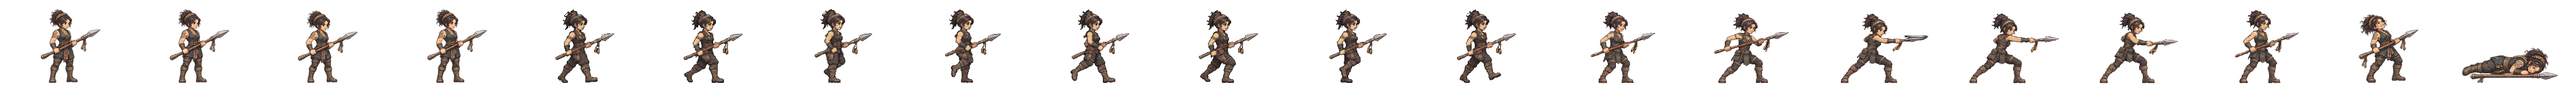
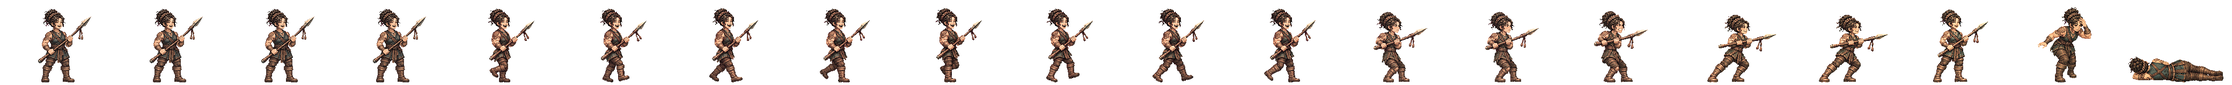
마한 전사 새 전투 띠를 게임에 넣음(서기·걷기·창 찌르기 여덟 칸·쓰러짐·머리띠 고쳐 매기)
우람한(sturdy) 뼈대 장수. 넓은 어깨와 문신 팔이 걷기·공격·쓰러짐에서 서기와 같은 부피로 이어진다.

Claude-Session: https://claude.ai/code/session_01TRiuN7s6aDfSnaHxrkctmU

Changed region(s): [[0.4688, 0.125, 1.0, 0.9688], [0.2188, 0.125, 0.4375, 0.9688], [0.0, 0.125, 0.1875, 0.9688]]

diff --git a/src/realm/data/spritePx.ts b/src/realm/data/spritePx.ts
@@ -1,3 +1,3 @@
 /** public/realm/anim-px/manifest.json 의 사본 — tools/sprite-normalize.mjs 가 만든다 (손으로 고치지 말 것). 칸 [가로, 세로] · feet = 발 줄(칸 위에서 y) · bodyPx = 서 있는 몸 키 */
 import { expandManifest } from './sprite-manifest.ts'
-export const SPRITE_PX: Readonly<Record<string, { readonly cell: readonly [number, number]; readonly feet: number; readonly bodyPx: number; readonly kind: 'general' | 'soldier' | 'folk' | 'crowd'; readonly cells: number }>> = expandManifest<{ readonly cell: readonly [number, number]; readonly feet: number; readonly bodyPx: number; readonly kind: 'general' | 'soldier' | 'folk' | 'crowd'; readonly cells: number }>([{"cell":[166,128],"feet":126,"bodyPx":124,"kind":"soldier","cells":20},{"cell":[116,128],"feet":126,"bodyPx":117,"kind":"soldier","cells":20},{"cell":[127,128],"feet":126,"bodyPx":116,"kind":"soldier","cells":20},{"cell":[269,128],"feet":126,"bodyPx":126,"kind":"soldier","cells":20},{"cell":[503,128],"feet":126,"bodyPx":127,"kind":"soldier","cells":20},{"cell":[614,128],"feet":126,"bodyPx":126,"kind":"soldier","cells":20},{"cell":[200,160],"feet":156,"bodyPx":138,"kind":"general","cells":20},{"cell":[208,160],"feet":155,"bodyPx":138,"kind":"general","cells":20},{"cell":[208,160],"feet":154,"bodyPx":138,"kind":"general","cells":20},{"cell":[304,160],"feet":155,"bodyPx":135,"kind":"general","cells":20},{"cell":[224,160],"feet":156,"bodyPx":139,"kind":"general","cells":20},{"cell":[184,160],"feet":156,"bodyPx":138,"kind":"general","cells":20},{"cell":[208,160],"feet":154,"bodyPx":136,"kind":"general","cells":20},{"cell":[240,160],"feet":156,"bodyPx":138,"kind":"general","cells":20},{"cell":[232,160],"feet":156,"bodyPx":138,"kind":"general","cells":20},{"cell":[208,160],"feet":156,"bodyPx":138,"kind":"general","cells":20},{"cell":[168,160],"feet":156,"bodyPx":138,"kind":"general","cells":20},{"cell":[192,160],"feet":156,"bodyPx":138,"kind":"general","cells":20},{"cell":[168,160],"feet":156,"bodyPx":124,"kind":"general","cells":20},{"cell":[216,160],"feet":156,"bodyPx":130,"kind":"general","cells":20},{"cell":[200,160],"feet":156,"bodyPx":116,"kind":"general","cells":20},{"cell":[200,160],"feet":156,"bodyPx":135,"kind":"general","cells":20},{"cell":[280,160],"feet":156,"bodyPx":138,"kind":"general","cells":20},{"cell":[232,160],"feet":155,"bodyPx":138,"kind":"general","cells":20},{"cell":[232,160],"feet":156,"bodyPx":134,"kind":"general","cells":20},{"cell":[144,160],"feet":156,"bodyPx":70,"kind":"general","cells":20},{"cell":[208,160],"feet":156,"bodyPx":70,"kind":"general","cells":20},{"cell":[192,160],"feet":156,"bodyPx":70,"kind":"general","cells":20},{"cell":[240,160],"feet":155,"bodyPx":138,"kind":"general","cells":20},{"cell":[160,160],"feet":156,"bodyPx":135,"kind":"general","cells":20},{"cell":[192,160],"feet":156,"bodyPx":128,"kind":"general","cells":20},{"cell":[224,160],"feet":155,"bodyPx":138,"kind":"general","cells":20},{"cell":[232,160],"feet":156,"bodyPx":139,"kind":"general","cells":20},{"cell":[216,160],"feet":156,"bodyPx":138,"kind":"general","cells":20},{"cell":[208,160],"feet":156,"bodyPx":134,"kind":"general","cells":20},{"cell":[176,160],"feet":156,"bodyPx":130,"kind":"general","cells":20},{"cell":[248,160],"feet":156,"bodyPx":138,"kind":"general","cells":20},{"cell":[248,160],"feet":155,"bodyPx":138,"kind":"general","cells":20},{"cell":[192,160],"feet":155,"bodyPx":138,"kind":"general","cells":20},{"cell":[192,160],"feet":156,"bodyPx":124,"kind":"general","cells":20},{"cell":[208,160],"feet":154,"bodyPx":131,"kind":"general","cells":20},{"cell":[256,160],"feet":156,"bodyPx":138,"kind":"general","cells":20},{"cell":[232,160],"feet":156,"bodyPx":73,"kind":"general","cells":20},{"cell":[256,160],"feet":155,"bodyPx":138,"kind":"general","cells":20},{"cell":[264,160],"feet":156,"bodyPx":138,"kind":"general","cells":20},{"cell":[224,160],"feet":156,"bodyPx":138,"kind":"general","cells":20},{"cell":[224,160],"feet":156,"bodyPx":128,"kind":"general","cells":20},{"cell":[176,160],"feet":156,"bodyPx":129,"kind":"general","cells":20},{"cell":[208,160],"feet":154,"bodyPx":139,"kind":"general","cells":20},{"cell":[208,160],"feet":156,"bodyPx":132,"kind":"general","cells":20},{"cell":[216,160],"feet":155,"bodyPx":138,"kind":"general","cells":20},{"cell":[184,160],"feet":156,"bodyPx":122,"kind":"general","cells":20},{"cell":[176,160],"feet":156,"bodyPx":138,"kind":"general","cells":20},{"cell":[280,160],"feet":155,"bodyPx":133,"kind":"general","cells":20},{"cell":[176,160],"feet":156,"bodyPx":70,"kind":"general","cells":20},{"cell":[186,128],"feet":126,"bodyPx":127,"kind":"soldier","cells":20},{"cell":[298,128],"feet":126,"bodyPx":126,"kind":"soldier","cells":20},{"cell":[82,128],"feet":126,"bodyPx":114,"kind":"folk","cells":8},{"cell":[134,128],"feet":126,"bodyPx":119,"kind":"soldier","cells":20},{"cell":[380,128],"feet":126,"bodyPx":124,"kind":"soldier","cells":20},{"cell":[114,128],"feet":126,"bodyPx":115,"kind":"soldier","cells":20},{"cell":[122,128],"feet":126,"bodyPx":114,"kind":"soldier","cells":20},{"cell":[254,128],"feet":126,"bodyPx":128,"kind":"soldier","cells":20},{"cell":[438,128],"feet":126,"bodyPx":126,"kind":"soldier","cells":20},{"cell":[88,128],"feet":126,"bodyPx":113,"kind":"folk","cells":8},{"cell":[100,128],"feet":126,"bodyPx":115,"kind":"folk","cells":8},{"cell":[108,128],"feet":126,"bodyPx":115,"kind":"folk","cells":8},{"cell":[63,128],"feet":126,"bodyPx":113,"kind":"folk","cells":8},{"cell":[69,96],"feet":96,"bodyPx":96,"kind":"crowd","cells":1},{"cell":[54,96],"feet":96,"bodyPx":96,"kind":"crowd","cells":1},{"cell":[47,96],"feet":96,"bodyPx":96,"kind":"crowd","cells":1},{"cell":[49,96],"feet":96,"bodyPx":96,"kind":"crowd","cells":1},{"cell":[57,96],"feet":96,"bodyPx":96,"kind":"crowd","cells":1},{"cell":[55,96],"feet":96,"bodyPx":96,"kind":"crowd","cells":1},{"cell":[45,96],"feet":96,"bodyPx":96,"kind":"crowd","cells":1},{"cell":[53,96],"feet":96,"bodyPx":96,"kind":"crowd","cells":1},{"cell":[64,96],"feet":96,"bodyPx":96,"kind":"crowd","cells":1},{"cell":[184,160],"feet":156,"bodyPx":124,"kind":"general","cells":20},{"cell":[184,160],"feet":156,"bodyPx":134,"kind":"general","cells":20},{"cell":[224,160],"feet":156,"bodyPx":133,"kind":"general","cells":20},{"cell":[192,160],"feet":156,"bodyPx":135,"kind":"general","cells":20},{"cell":[184,160],"feet":156,"bodyPx":137,"kind":"general","cells":20},{"cell":[216,160],"feet":156,"bodyPx":134,"kind":"general","cells":20},{"cell":[216,160],"feet":156,"bodyPx":132,"kind":"general","cells":20},{"cell":[288,160],"feet":156,"bodyPx":138,"kind":"general","cells":20},{"cell":[192,160],"feet":156,"bodyPx":118,"kind":"general","cells":20},{"cell":[192,160],"feet":156,"bodyPx":134,"kind":"general","cells":20},{"cell":[192,160],"feet":157,"bodyPx":139,"kind":"general","cells":20},{"cell":[184,160],"feet":156,"bodyPx":128,"kind":"general","cells":20},{"cell":[240,160],"feet":156,"bodyPx":128,"kind":"general","cells":20},{"cell":[184,160],"feet":156,"bodyPx":132,"kind":"general","cells":20},{"cell":[208,160],"feet":156,"bodyPx":123,"kind":"general","cells":20},{"cell":[208,160],"feet":154,"bodyPx":137,"kind":"general","cells":20},{"cell":[176,160],"feet":156,"bodyPx":116,"kind":"general","cells":20},{"cell":[272,160],"feet":156,"bodyPx":138,"kind":"general","cells":20},{"cell":[176,160],"feet":156,"bodyPx":122,"kind":"general","cells":20},{"cell":[232,160],"feet":156,"bodyPx":127,"kind":"general","cells":20},{"cell":[176,160],"feet":156,"bodyPx":137,"kind":"general","cells":20},{"cell":[184,160],"feet":156,"bodyPx":133,"kind":"general","cells":20}],[["axe",0],["bandit-chief",1],["bandit-club",2],["boat",3],["bow",4],["crossbow",5],["gen-adogan",6],["gen-alpyeong",7],["gen-ara",8],["gen-areum",8],["gen-aryeong",9],["gen-bakdal",6],["gen-baram",10],["gen-bdanbi",11],["gen-beom",12],["gen-beombal",11],["gen-beomi",13],["gen-bira",14],["gen-biryu",15],["gen-budeul",16],["gen-byeol",17],["gen-daemusin",18],["gen-daeso",19],["gen-dallae2",11],["gen-dalli",11],["gen-damul",20],["gen-danbi",15],["gen-dangung",17],["gen-darae",21],["gen-dokmudeom",7],["gen-duman",22],["gen-eomni",23],["gen-eureum",24],["gen-g-bow",25],["gen-g-spear",26],["gen-g-sword",27],["gen-gaennae",6],["gen-gamsil",28],["gen-gaon",29],["gen-geota",15],["gen-geumbawi",11],["gen-geumha",30],["gen-goeun",15],["gen-gom",31],["gen-gomok",15],["gen-gureum",28],["gen-guryema",17],["gen-gwaeyu",14],["gen-haebi",8],["gen-haedal",6],["gen-haesol",32],["gen-halla",7],["gen-heo",8],["gen-hneoul",11],["gen-hogong",33],["gen-hojin",15],["gen-horselord",34],["gen-hwalmi",35],["gen-hyeokgeose",17],["gen-hyeopbo",6],["gen-irang",15],["gen-jibaekho",36],["gen-jinha",37],["gen-jita",38],["gen-jumong",39],["gen-keundol",7],["gen-maehwa",40],["gen-maenun",17],["gen-malgalgi",41],["gen-mari",13],["gen-maro",36],["gen-maryeo",15],["gen-mdallae",32],["gen-mir",6],["gen-mount",42],["gen-mulbeom",43],["gen-mulsae",33],["gen-musoe",33],["gen-noeul",8],["gen-nuri",44],["gen-ocheongan",45],["gen-odi",37],["gen-odogan",6],["gen-ogan",17],["gen-oi",46],["gen-olddaeso",24],["gen-onjo",47],["gen-pidogan",15],["gen-sagong",48],["gen-sdallae",6],["gen-sincheongan",33],["gen-singwigan",33],["gen-sinneoul",8],["gen-sobeol",23],["gen-soebi",6],["gen-soebo",49],["gen-soenun",36],["gen-sogeumbi",50],["gen-songbi",45],["gen-songyang",51],["gen-sori",52],["gen-soseono",53],["gen-suro",17],["gen-tahae",6],["gen-tneoul",45],["gen-w-bow",25],["gen-w-spear",54],["gen-waechief",15],["gen-wan",33],["gen-yeodogan",15],["gen-yucheongan",15],["gen-yusugan",36],["horse",55],["marine",56],["migrant",57],["militia",58],["pike",59],["pirate-captain",60],["pirate-sword",61],["shield",62],["spear",63],["villager-builder",64],["villager-farmer",65],["villager-porter",66],["villager-woman",67],["crowd-b1",68],["crowd-b2",69],["crowd-b3",70],["crowd-b4",71],["crowd-b5",72],["crowd-b6",73],["crowd-f1",68],["crowd-f2",73],["crowd-f3",74],["crowd-f4",75],["crowd-f5",68],["crowd-f6",76],["gen-dalbit",15],["gen-base-g-07-drunk-warrior",17],["gen-base-g-40-anya-adan",15],["gen-base-w-13-young-archer",8],["gen-base-g-03-sea-trader",13],["gen-base-w-10-pirate-captain",48],["gen-base-w-64-miri-dallae",48],["gen-base-g-41-goja-bau",13],["gen-base-g-42-dokro-garam",44],["gen-base-g-09-farmer-conscript",33],["gen-base-w-02-goguryeo-lady",33],["gen-base-w-17-mahan-pearl-diver",8],["gen-base-g-17-saro-isageum",49],["gen-base-g-18-daegaya-king",77],["gen-base-g-35-dabeol-dalgu",15],["gen-base-g-19-sabeol-veteran",33],["gen-base-w-23-usisan-whale-queen",33],["gen-base-g-36-gammun-gamdol",45],["gen-base-g-20-samul-sea-lord",41],["gen-base-g-37-eumjeup-jeup",11],["gen-base-g-38-chopal-palmae",17],["gen-base-w-75-daegaya-soemoe",17],["gen-base-g-45-dabeol-deulgae",11],["gen-base-g-04-jinhan-giant",15],["gen-base-g-08-veteran",15],["gen-base-w-18-jinhan-salt-widow",15],["gen-base-w-12-court-dancer",78],["gen-base-w-83-gyeonji-beodeul",79],["gen-base-w-05-baekje-queen",80],["gen-base-w-21-baekje-court-dancer",11],["gen-base-g-01-master-smith",81],["gen-base-g-93-jomun-solgae",35],["gen-base-g-57-bihwa-neup",13],["gen-base-w-72-eumjeup-beol",15],["gen-base-w-102-garak-dana",33],["gen-base-g-68-baekje-onnuri",15],["gen-base-w-27-mokji-jinha",6],["gen-base-g-22-ungcheon-gomnae",6],["gen-base-g-23-sangdang-soedal",15],["gen-base-g-24-wansan-onsan",6],["gen-base-g-25-balla-keunmoe",33],["gen-base-g-61-heomcheuk-bawi",33],["gen-base-g-88-wander-soeul",45],["gen-base-w-14-feast-spy",6],["gen-base-g-12-silla-youth",82],["gen-base-w-08-mahan-warrior",13],["gen-base-g-62-beonye-hanul",13],["gen-base-g-63-heomcheuk-beogeum",15],["gen-base-g-84-wander-seoneul",15],["gen-base-w-50-siljik-mulga",33],["gen-base-g-46-uga-nureongso",33],["gen-base-w-80-usan-gangchi",13],["gen-base-g-47-guga-sanyanggae",33],["gen-base-w-76-gampyeong-baetsagong",36],["gen-base-g-05-mahan-chieftain",83],["gen-base-g-58-usan-uhae",15],["gen-base-g-27-maek-maekdol",15],["gen-base-w-53-hwanna-gabi",16],["gen-base-w-29-golpo-janmul",36],["gen-base-g-53-baekje-haeru",6],["gen-base-w-71-yeonna-neoul",13],["gen-base-w-79-yangmaek-solmae",33],["gen-base-w-34-chopal-deulme",44],["gen-base-g-44-maga-malgup",84],["gen-base-w-31-dabeol-dalbit",48],["gen-base-g-51-biryuna-mulgyeol",45],["gen-base-g-48-gwanna-musoe",15],["gen-base-g-32-uga-sodu",14],["gen-base-g-49-goguryeo-sona",85],["gen-base-g-30-gwanna-soemoe",45],["gen-base-g-52-tamna-oreum",11],["gen-base-g-29-yeonna-myeongsol",39],["gen-base-w-56-dongokjeo-sogeum",86],["gen-base-g-54-mokji-mahan",14],["gen-base-g-33-jeoga-metdol",17],["gen-base-w-36-baekje-maena",17],["gen-base-w-38-sangdang-bulmae",6],["gen-base-w-39-gosaburi-galmae",87],["gen-base-w-40-mujin-munui",49],["gen-base-w-41-hwanna-beodeul",88],["gen-base-w-43-uga-nuri",41],["gen-base-w-45-tamna-oreumbi",11],["gen-base-g-60-golbeol-golgae",11],["gen-base-g-61-apdok-ap",33],["gen-base-g-62-gammun-gamnamu",6],["gen-base-g-63-chopal-yeoul",36],["gen-base-g-64-michuhol-sogeumkkun",13],["gen-base-g-65-sangdang-soemangchi",45],["gen-base-g-66-geonma-malbalgup",89],["gen-base-g-67-gosaburi-buri",90],["gen-base-g-68-mujin-bitgoeul",11],["gen-base-g-69-goryong-yong",45],["gen-base-g-70-siljik-pado",13],["gen-base-w-81-byeokjin-byeolbit",14],["gen-base-w-46-geonma-maru",36],["gen-base-w-48-mujin-mudeung",13],["gen-base-g-26-gampyeong-gaetbeol",14],["gen-base-g-60-eupcha-hangyeol",91],["gen-base-g-15-shaman-man",33],["gen-base-g-85-wander-ure",36],["gen-base-g-43-hwanna-amnok",15],["gen-base-g-50-bullae-gwaha",80],["gen-base-g-55-saro-bakdal",15],["gen-base-g-56-haseulla-gwahama",6],["gen-base-w-06-buyeo-huntress",92],["gen-base-w-22-dongye-tiger-huntress",8],["gen-base-w-25-bihwa-priestess",33],["gen-base-w-24-apdok-queen",11],["gen-base-w-61-iseo-sinae",15],["gen-base-w-26-iseo-tomboy-general",44],["gen-base-g-59-yangmaek-maekson",93],["gen-aw1-haebi",45],["gen-aw1-soseono",94],["gen-aw1-gamsil",11],["gen-aw1-mir",52],["gen-aw1-dangung",6],["gen-aw1-ara",45],["gen-aw1-jumong",95],["gen-aw1-onjo",96],["gen-aw1-base-w-83-gyeonji-beodeul",17],["gen-aw1-heo",44],["gen-aw1-base-g-38-chopal-palmae",6],["gen-aw1-base-w-25-bihwa-priestess",78],["gen-aw1-sori",16],["gen-aw1-gomok",6],["gen-aw1-irang",17],["gen-aw1-budeul",16],["gen-aw1-gom",13],["gen-aw1-sdallae",6],["gen-aw1-base-w-13-young-archer",6],["gen-aw1-base-w-36-baekje-maena",97],["gen-aw1-base-g-09-farmer-conscript",44],["gen-aw1-base-w-02-goguryeo-lady",98],["gen-aw1-haedal",11],["gen-aw1-hogong",6],["gen-aw1-maehwa",52],["gen-aw1-base-w-06-buyeo-huntress",14],["gen-aw1-base-w-08-mahan-warrior",45],["gen-aw1-base-w-29-golpo-janmul",45],["gen-aw1-base-w-31-dabeol-dalbit",17],["gen-aw1-base-w-38-sangdang-bulmae",16],["gen-aw1-bira",33],["gen-aw1-base-w-53-hwanna-gabi",16],["gen-aw1-base-w-56-dongokjeo-sogeum",52],["gen-aw1-base-w-72-eumjeup-beol",17],["gen-aw1-bdanbi",16],["gen-aw1-beom",11],["gen-aw1-beombal",11],["gen-aw1-byeol",17],["gen-aw1-dalli",52],["gen-aw1-malgalgi",36],["gen-aw1-sincheongan",33]])
+export const SPRITE_PX: Readonly<Record<string, { readonly cell: readonly [number, number]; readonly feet: number; readonly bodyPx: number; readonly kind: 'general' | 'soldier' | 'folk' | 'crowd'; readonly cells: number }>> = expandManifest<{ readonly cell: readonly [number, number]; readonly feet: number; readonly bodyPx: number; readonly kind: 'general' | 'soldier' | 'folk' | 'crowd'; readonly cells: number }>([{"cell":[166,128],"feet":126,"bodyPx":124,"kind":"soldier","cells":20},{"cell":[116,128],"feet":126,"bodyPx":117,"kind":"soldier","cells":20},{"cell":[127,128],"feet":126,"bodyPx":116,"kind":"soldier","cells":20},{"cell":[269,128],"feet":126,"bodyPx":126,"kind":"soldier","cells":20},{"cell":[503,128],"feet":126,"bodyPx":127,"kind":"soldier","cells":20},{"cell":[614,128],"feet":126,"bodyPx":126,"kind":"soldier","cells":20},{"cell":[200,160],"feet":156,"bodyPx":138,"kind":"general","cells":20},{"cell":[208,160],"feet":155,"bodyPx":138,"kind":"general","cells":20},{"cell":[208,160],"feet":154,"bodyPx":138,"kind":"general","cells":20},{"cell":[304,160],"feet":155,"bodyPx":135,"kind":"general","cells":20},{"cell":[224,160],"feet":156,"bodyPx":139,"kind":"general","cells":20},{"cell":[184,160],"feet":156,"bodyPx":138,"kind":"general","cells":20},{"cell":[208,160],"feet":154,"bodyPx":136,"kind":"general","cells":20},{"cell":[240,160],"feet":156,"bodyPx":138,"kind":"general","cells":20},{"cell":[232,160],"feet":156,"bodyPx":138,"kind":"general","cells":20},{"cell":[208,160],"feet":156,"bodyPx":138,"kind":"general","cells":20},{"cell":[168,160],"feet":156,"bodyPx":138,"kind":"general","cells":20},{"cell":[192,160],"feet":156,"bodyPx":138,"kind":"general","cells":20},{"cell":[168,160],"feet":156,"bodyPx":124,"kind":"general","cells":20},{"cell":[216,160],"feet":156,"bodyPx":130,"kind":"general","cells":20},{"cell":[200,160],"feet":156,"bodyPx":116,"kind":"general","cells":20},{"cell":[200,160],"feet":156,"bodyPx":135,"kind":"general","cells":20},{"cell":[280,160],"feet":156,"bodyPx":138,"kind":"general","cells":20},{"cell":[232,160],"feet":155,"bodyPx":138,"kind":"general","cells":20},{"cell":[232,160],"feet":156,"bodyPx":134,"kind":"general","cells":20},{"cell":[144,160],"feet":156,"bodyPx":70,"kind":"general","cells":20},{"cell":[208,160],"feet":156,"bodyPx":70,"kind":"general","cells":20},{"cell":[192,160],"feet":156,"bodyPx":70,"kind":"general","cells":20},{"cell":[240,160],"feet":155,"bodyPx":138,"kind":"general","cells":20},{"cell":[160,160],"feet":156,"bodyPx":135,"kind":"general","cells":20},{"cell":[192,160],"feet":156,"bodyPx":128,"kind":"general","cells":20},{"cell":[224,160],"feet":155,"bodyPx":138,"kind":"general","cells":20},{"cell":[232,160],"feet":156,"bodyPx":139,"kind":"general","cells":20},{"cell":[216,160],"feet":156,"bodyPx":138,"kind":"general","cells":20},{"cell":[208,160],"feet":156,"bodyPx":134,"kind":"general","cells":20},{"cell":[176,160],"feet":156,"bodyPx":130,"kind":"general","cells":20},{"cell":[248,160],"feet":156,"bodyPx":138,"kind":"general","cells":20},{"cell":[248,160],"feet":155,"bodyPx":138,"kind":"general","cells":20},{"cell":[192,160],"feet":155,"bodyPx":138,"kind":"general","cells":20},{"cell":[192,160],"feet":156,"bodyPx":124,"kind":"general","cells":20},{"cell":[208,160],"feet":154,"bodyPx":131,"kind":"general","cells":20},{"cell":[256,160],"feet":156,"bodyPx":138,"kind":"general","cells":20},{"cell":[232,160],"feet":156,"bodyPx":73,"kind":"general","cells":20},{"cell":[256,160],"feet":155,"bodyPx":138,"kind":"general","cells":20},{"cell":[264,160],"feet":156,"bodyPx":138,"kind":"general","cells":20},{"cell":[224,160],"feet":156,"bodyPx":138,"kind":"general","cells":20},{"cell":[224,160],"feet":156,"bodyPx":128,"kind":"general","cells":20},{"cell":[176,160],"feet":156,"bodyPx":129,"kind":"general","cells":20},{"cell":[208,160],"feet":154,"bodyPx":139,"kind":"general","cells":20},{"cell":[208,160],"feet":156,"bodyPx":132,"kind":"general","cells":20},{"cell":[216,160],"feet":155,"bodyPx":138,"kind":"general","cells":20},{"cell":[184,160],"feet":156,"bodyPx":122,"kind":"general","cells":20},{"cell":[176,160],"feet":156,"bodyPx":138,"kind":"general","cells":20},{"cell":[280,160],"feet":155,"bodyPx":133,"kind":"general","cells":20},{"cell":[176,160],"feet":156,"bodyPx":70,"kind":"general","cells":20},{"cell":[186,128],"feet":126,"bodyPx":127,"kind":"soldier","cells":20},{"cell":[298,128],"feet":126,"bodyPx":126,"kind":"soldier","cells":20},{"cell":[82,128],"feet":126,"bodyPx":114,"kind":"folk","cells":8},{"cell":[134,128],"feet":126,"bodyPx":119,"kind":"soldier","cells":20},{"cell":[380,128],"feet":126,"bodyPx":124,"kind":"soldier","cells":20},{"cell":[114,128],"feet":126,"bodyPx":115,"kind":"soldier","cells":20},{"cell":[122,128],"feet":126,"bodyPx":114,"kind":"soldier","cells":20},{"cell":[254,128],"feet":126,"bodyPx":128,"kind":"soldier","cells":20},{"cell":[438,128],"feet":126,"bodyPx":126,"kind":"soldier","cells":20},{"cell":[88,128],"feet":126,"bodyPx":113,"kind":"folk","cells":8},{"cell":[100,128],"feet":126,"bodyPx":115,"kind":"folk","cells":8},{"cell":[108,128],"feet":126,"bodyPx":115,"kind":"folk","cells":8},{"cell":[63,128],"feet":126,"bodyPx":113,"kind":"folk","cells":8},{"cell":[69,96],"feet":96,"bodyPx":96,"kind":"crowd","cells":1},{"cell":[54,96],"feet":96,"bodyPx":96,"kind":"crowd","cells":1},{"cell":[47,96],"feet":96,"bodyPx":96,"kind":"crowd","cells":1},{"cell":[49,96],"feet":96,"bodyPx":96,"kind":"crowd","cells":1},{"cell":[57,96],"feet":96,"bodyPx":96,"kind":"crowd","cells":1},{"cell":[55,96],"feet":96,"bodyPx":96,"kind":"crowd","cells":1},{"cell":[45,96],"feet":96,"bodyPx":96,"kind":"crowd","cells":1},{"cell":[53,96],"feet":96,"bodyPx":96,"kind":"crowd","cells":1},{"cell":[64,96],"feet":96,"bodyPx":96,"kind":"crowd","cells":1},{"cell":[184,160],"feet":156,"bodyPx":124,"kind":"general","cells":20},{"cell":[184,160],"feet":156,"bodyPx":134,"kind":"general","cells":20},{"cell":[224,160],"feet":156,"bodyPx":133,"kind":"general","cells":20},{"cell":[192,160],"feet":156,"bodyPx":135,"kind":"general","cells":20},{"cell":[184,160],"feet":156,"bodyPx":137,"kind":"general","cells":20},{"cell":[216,160],"feet":156,"bodyPx":134,"kind":"general","cells":20},{"cell":[216,160],"feet":156,"bodyPx":132,"kind":"general","cells":20},{"cell":[288,160],"feet":156,"bodyPx":138,"kind":"general","cells":20},{"cell":[192,160],"feet":156,"bodyPx":118,"kind":"general","cells":20},{"cell":[192,160],"feet":156,"bodyPx":134,"kind":"general","cells":20},{"cell":[192,160],"feet":157,"bodyPx":139,"kind":"general","cells":20},{"cell":[184,160],"feet":156,"bodyPx":128,"kind":"general","cells":20},{"cell":[240,160],"feet":156,"bodyPx":128,"kind":"general","cells":20},{"cell":[184,160],"feet":156,"bodyPx":132,"kind":"general","cells":20},{"cell":[208,160],"feet":156,"bodyPx":123,"kind":"general","cells":20},{"cell":[208,160],"feet":154,"bodyPx":137,"kind":"general","cells":20},{"cell":[176,160],"feet":156,"bodyPx":116,"kind":"general","cells":20},{"cell":[272,160],"feet":156,"bodyPx":138,"kind":"general","cells":20},{"cell":[176,160],"feet":156,"bodyPx":122,"kind":"general","cells":20},{"cell":[232,160],"feet":156,"bodyPx":127,"kind":"general","cells":20},{"cell":[176,160],"feet":156,"bodyPx":137,"kind":"general","cells":20},{"cell":[184,160],"feet":156,"bodyPx":133,"kind":"general","cells":20}],[["axe",0],["bandit-chief",1],["bandit-club",2],["boat",3],["bow",4],["crossbow",5],["gen-adogan",6],["gen-alpyeong",7],["gen-ara",8],["gen-areum",8],["gen-aryeong",9],["gen-bakdal",6],["gen-baram",10],["gen-bdanbi",11],["gen-beom",12],["gen-beombal",11],["gen-beomi",13],["gen-bira",14],["gen-biryu",15],["gen-budeul",16],["gen-byeol",17],["gen-daemusin",18],["gen-daeso",19],["gen-dallae2",11],["gen-dalli",11],["gen-damul",20],["gen-danbi",15],["gen-dangung",17],["gen-darae",21],["gen-dokmudeom",7],["gen-duman",22],["gen-eomni",23],["gen-eureum",24],["gen-g-bow",25],["gen-g-spear",26],["gen-g-sword",27],["gen-gaennae",6],["gen-gamsil",28],["gen-gaon",29],["gen-geota",15],["gen-geumbawi",11],["gen-geumha",30],["gen-goeun",15],["gen-gom",31],["gen-gomok",15],["gen-gureum",28],["gen-guryema",17],["gen-gwaeyu",14],["gen-haebi",8],["gen-haedal",6],["gen-haesol",32],["gen-halla",7],["gen-heo",8],["gen-hneoul",11],["gen-hogong",33],["gen-hojin",15],["gen-horselord",34],["gen-hwalmi",35],["gen-hyeokgeose",17],["gen-hyeopbo",6],["gen-irang",15],["gen-jibaekho",36],["gen-jinha",37],["gen-jita",38],["gen-jumong",39],["gen-keundol",7],["gen-maehwa",40],["gen-maenun",17],["gen-malgalgi",41],["gen-mari",13],["gen-maro",36],["gen-maryeo",15],["gen-mdallae",32],["gen-mir",6],["gen-mount",42],["gen-mulbeom",43],["gen-mulsae",33],["gen-musoe",33],["gen-noeul",8],["gen-nuri",44],["gen-ocheongan",45],["gen-odi",37],["gen-odogan",6],["gen-ogan",17],["gen-oi",46],["gen-olddaeso",24],["gen-onjo",47],["gen-pidogan",15],["gen-sagong",48],["gen-sdallae",6],["gen-sincheongan",33],["gen-singwigan",33],["gen-sinneoul",8],["gen-sobeol",23],["gen-soebi",6],["gen-soebo",49],["gen-soenun",36],["gen-sogeumbi",50],["gen-songbi",45],["gen-songyang",51],["gen-sori",52],["gen-soseono",53],["gen-suro",17],["gen-tahae",6],["gen-tneoul",45],["gen-w-bow",25],["gen-w-spear",54],["gen-waechief",15],["gen-wan",33],["gen-yeodogan",15],["gen-yucheongan",15],["gen-yusugan",36],["horse",55],["marine",56],["migrant",57],["militia",58],["pike",59],["pirate-captain",60],["pirate-sword",61],["shield",62],["spear",63],["villager-builder",64],["villager-farmer",65],["villager-porter",66],["villager-woman",67],["crowd-b1",68],["crowd-b2",69],["crowd-b3",70],["crowd-b4",71],["crowd-b5",72],["crowd-b6",73],["crowd-f1",68],["crowd-f2",73],["crowd-f3",74],["crowd-f4",75],["crowd-f5",68],["crowd-f6",76],["gen-dalbit",15],["gen-base-g-07-drunk-warrior",17],["gen-base-g-40-anya-adan",15],["gen-base-w-13-young-archer",8],["gen-base-g-03-sea-trader",13],["gen-base-w-10-pirate-captain",48],["gen-base-w-64-miri-dallae",48],["gen-base-g-41-goja-bau",13],["gen-base-g-42-dokro-garam",44],["gen-base-g-09-farmer-conscript",33],["gen-base-w-02-goguryeo-lady",33],["gen-base-w-17-mahan-pearl-diver",8],["gen-base-g-17-saro-isageum",49],["gen-base-g-18-daegaya-king",77],["gen-base-g-35-dabeol-dalgu",15],["gen-base-g-19-sabeol-veteran",33],["gen-base-w-23-usisan-whale-queen",33],["gen-base-g-36-gammun-gamdol",45],["gen-base-g-20-samul-sea-lord",41],["gen-base-g-37-eumjeup-jeup",11],["gen-base-g-38-chopal-palmae",17],["gen-base-w-75-daegaya-soemoe",17],["gen-base-g-45-dabeol-deulgae",11],["gen-base-g-04-jinhan-giant",15],["gen-base-g-08-veteran",15],["gen-base-w-18-jinhan-salt-widow",15],["gen-base-w-12-court-dancer",78],["gen-base-w-83-gyeonji-beodeul",79],["gen-base-w-05-baekje-queen",80],["gen-base-w-21-baekje-court-dancer",11],["gen-base-g-01-master-smith",81],["gen-base-g-93-jomun-solgae",35],["gen-base-g-57-bihwa-neup",13],["gen-base-w-72-eumjeup-beol",15],["gen-base-w-102-garak-dana",33],["gen-base-g-68-baekje-onnuri",15],["gen-base-w-27-mokji-jinha",6],["gen-base-g-22-ungcheon-gomnae",6],["gen-base-g-23-sangdang-soedal",15],["gen-base-g-24-wansan-onsan",6],["gen-base-g-25-balla-keunmoe",33],["gen-base-g-61-heomcheuk-bawi",33],["gen-base-g-88-wander-soeul",45],["gen-base-w-14-feast-spy",6],["gen-base-g-12-silla-youth",82],["gen-base-w-08-mahan-warrior",8],["gen-base-g-62-beonye-hanul",13],["gen-base-g-63-heomcheuk-beogeum",15],["gen-base-g-84-wander-seoneul",15],["gen-base-w-50-siljik-mulga",33],["gen-base-g-46-uga-nureongso",33],["gen-base-w-80-usan-gangchi",13],["gen-base-g-47-guga-sanyanggae",33],["gen-base-w-76-gampyeong-baetsagong",36],["gen-base-g-05-mahan-chieftain",83],["gen-base-g-58-usan-uhae",15],["gen-base-g-27-maek-maekdol",15],["gen-base-w-53-hwanna-gabi",16],["gen-base-w-29-golpo-janmul",36],["gen-base-g-53-baekje-haeru",6],["gen-base-w-71-yeonna-neoul",13],["gen-base-w-79-yangmaek-solmae",33],["gen-base-w-34-chopal-deulme",44],["gen-base-g-44-maga-malgup",84],["gen-base-w-31-dabeol-dalbit",48],["gen-base-g-51-biryuna-mulgyeol",45],["gen-base-g-48-gwanna-musoe",15],["gen-base-g-32-uga-sodu",14],["gen-base-g-49-goguryeo-sona",85],["gen-base-g-30-gwanna-soemoe",45],["gen-base-g-52-tamna-oreum",11],["gen-base-g-29-yeonna-myeongsol",39],["gen-base-w-56-dongokjeo-sogeum",86],["gen-base-g-54-mokji-mahan",14],["gen-base-g-33-jeoga-metdol",17],["gen-base-w-36-baekje-maena",17],["gen-base-w-38-sangdang-bulmae",6],["gen-base-w-39-gosaburi-galmae",87],["gen-base-w-40-mujin-munui",49],["gen-base-w-41-hwanna-beodeul",88],["gen-base-w-43-uga-nuri",41],["gen-base-w-45-tamna-oreumbi",11],["gen-base-g-60-golbeol-golgae",11],["gen-base-g-61-apdok-ap",33],["gen-base-g-62-gammun-gamnamu",6],["gen-base-g-63-chopal-yeoul",36],["gen-base-g-64-michuhol-sogeumkkun",13],["gen-base-g-65-sangdang-soemangchi",45],["gen-base-g-66-geonma-malbalgup",89],["gen-base-g-67-gosaburi-buri",90],["gen-base-g-68-mujin-bitgoeul",11],["gen-base-g-69-goryong-yong",45],["gen-base-g-70-siljik-pado",13],["gen-base-w-81-byeokjin-byeolbit",14],["gen-base-w-46-geonma-maru",36],["gen-base-w-48-mujin-mudeung",13],["gen-base-g-26-gampyeong-gaetbeol",14],["gen-base-g-60-eupcha-hangyeol",91],["gen-base-g-15-shaman-man",33],["gen-base-g-85-wander-ure",36],["gen-base-g-43-hwanna-amnok",15],["gen-base-g-50-bullae-gwaha",80],["gen-base-g-55-saro-bakdal",15],["gen-base-g-56-haseulla-gwahama",6],["gen-base-w-06-buyeo-huntress",92],["gen-base-w-22-dongye-tiger-huntress",8],["gen-base-w-25-bihwa-priestess",33],["gen-base-w-24-apdok-queen",11],["gen-base-w-61-iseo-sinae",15],["gen-base-w-26-iseo-tomboy-general",44],["gen-base-g-59-yangmaek-maekson",93],["gen-aw1-haebi",45],["gen-aw1-soseono",94],["gen-aw1-gamsil",11],["gen-aw1-mir",52],["gen-aw1-dangung",6],["gen-aw1-ara",45],["gen-aw1-jumong",95],["gen-aw1-onjo",96],["gen-aw1-base-w-83-gyeonji-beodeul",17],["gen-aw1-heo",44],["gen-aw1-base-g-38-chopal-palmae",6],["gen-aw1-base-w-25-bihwa-priestess",78],["gen-aw1-sori",16],["gen-aw1-gomok",6],["gen-aw1-irang",17],["gen-aw1-budeul",16],["gen-aw1-gom",13],["gen-aw1-sdallae",6],["gen-aw1-base-w-13-young-archer",6],["gen-aw1-base-w-36-baekje-maena",97],["gen-aw1-base-g-09-farmer-conscript",44],["gen-aw1-base-w-02-goguryeo-lady",98],["gen-aw1-haedal",11],["gen-aw1-hogong",6],["gen-aw1-maehwa",52],["gen-aw1-base-w-06-buyeo-huntress",14],["gen-aw1-base-w-08-mahan-warrior",45],["gen-aw1-base-w-29-golpo-janmul",45],["gen-aw1-base-w-31-dabeol-dalbit",17],["gen-aw1-base-w-38-sangdang-bulmae",16],["gen-aw1-bira",33],["gen-aw1-base-w-53-hwanna-gabi",16],["gen-aw1-base-w-56-dongokjeo-sogeum",52],["gen-aw1-base-w-72-eumjeup-beol",17],["gen-aw1-bdanbi",16],["gen-aw1-beom",11],["gen-aw1-beombal",11],["gen-aw1-byeol",17],["gen-aw1-dalli",52],["gen-aw1-malgalgi",36],["gen-aw1-sincheongan",33]])

diff --git a/src/duel/view.ts b/src/duel/view.ts
@@ -100,7 +100,7 @@ const crowdFront = [1, 2, 3, 4, 5, 6].map((i) => img(`realm/duel/crowd/b${i}.png
 const crowdReady = (set: HTMLImageElement[]): boolean => set.every((im) => im.complete && im.naturalWidth > 0)
 const pxMode = cfg.px !== false && params.get('px') !== '0'
 /** 겨루기 전용 옛 띠(duel/sprites) 대신 열전과 같은 도트 띠(anim-px)를 쓰는 장수 — 두 판에서 같은 모습 · 서기 계획·쓰러지는 칸도 같다 (11-23 범 · 매화 · 달빛 · 11-24 해비 · 아룸) */
-const PX_DUEL: ReadonlySet<string> = new Set(['beom', 'maehwa', 'base-w-31-dabeol-dalbit', 'haebi', 'areum', 'base-w-13-young-archer', 'base-w-10-pirate-captain', 'base-w-17-mahan-pearl-diver', 'base-w-06-buyeo-huntress', 'base-w-64-miri-dallae', 'ara', 'base-w-22-dongye-tiger-huntress', 'noeul', 'sagong', 'sinneoul', 'heo'])
+const PX_DUEL: ReadonlySet<string> = new Set(['beom', 'maehwa', 'base-w-31-dabeol-dalbit', 'haebi', 'areum', 'base-w-13-young-archer', 'base-w-10-pirate-captain', 'base-w-17-mahan-pearl-diver', 'base-w-06-buyeo-huntress', 'base-w-64-miri-dallae', 'ara', 'base-w-22-dongye-tiger-huntress', 'noeul', 'sagong', 'sinneoul', 'heo', 'base-w-08-mahan-warrior'])
 /** 띠 그림 — 기본은 anim-px(도트 규격) 먼저, 없으면 옛 띠로 (img 의 onerror 가 갈아 끼운다) */
 const strip = (s: string): HTMLImageElement => pxMode
   ? DUEL_ATLASES[s] !== undefined && !PX_DUEL.has(s) ? img(`realm/duel/sprites/gen-${s}.png`, `realm/anim-px/gen-${s}.png`)

diff --git a/src/tune/params.ts b/src/tune/params.ts
@@ -1426,6 +1426,7 @@ export const HAEBI_IDLE = {
     sagong: { cells: 34, base: [0, 1], hold: 2.4, fall: [18, 20, 21, 19], quirk: [22, 23, 24, 25], quirkTimes: [.3, .32, .4, .28], attack: { cells: [26, 27, 28, 29, 30, 31, 32, 33], times: [.09, .08, .11, .05, .15, .07, .08, .12], hit: 4 }, xGeom: { h: 224, root: 92, foot: 216 } },
     sinneoul: { cells: 34, base: [0, 1], hold: 2.4, fall: [18, 20, 21, 19], quirk: [22, 23, 24, 25], quirkTimes: [.3, .32, .4, .28], attack: { cells: [26, 27, 28, 29, 30, 31, 32, 33], times: [.09, .08, .11, .05, .15, .07, .08, .12], hit: 4 }, xGeom: { h: 224, root: 92, foot: 216 } },
     heo: { cells: 34, base: [0, 1], hold: 2.4, fall: [18, 20, 21, 19], quirk: [22, 23, 24, 25], quirkTimes: [.3, .32, .4, .28], attack: { cells: [26, 27, 28, 29, 30, 31, 32, 33], times: [.09, .08, .11, .05, .15, .07, .08, .12], hit: 4 }, xGeom: { h: 224, root: 92, foot: 216 } },
+    'base-w-08-mahan-warrior': { cells: 34, base: [0, 1], hold: 2.4, fall: [18, 20, 21, 19], quirk: [22, 23, 24, 25], quirkTimes: [.3, .32, .4, .28], attack: { cells: [26, 27, 28, 29, 30, 31, 32, 33], times: [.09, .08, .11, .05, .15, .07, .08, .12], hit: 4 }, xGeom: { h: 224, root: 92, foot: 216 } },
   },
 } as const
 export const HAEBI_ANIM = {

diff --git a/src/raid/hero-hd.ts b/src/raid/hero-hd.ts
@@ -49,7 +49,6 @@ export const HERO_HD: Readonly<Record<string, string>> = {
   'anim-px/gen-base-w-12-court-dancer.png': 'anim-px/gen-base-w-12-court-dancer_hd.png',
   'anim-px/gen-aw1-base-w-13-young-archer.png': 'anim-px/gen-aw1-base-w-13-young-archer_hd.png',
   'anim-px/gen-aw1-base-w-08-mahan-warrior.png': 'anim-px/gen-aw1-base-w-08-mahan-warrior_hd.png',
-  'anim-px/gen-base-w-08-mahan-warrior.png': 'anim-px/gen-base-w-08-mahan-warrior_hd.png',
   'anim-px/gen-base-w-05-baekje-queen.png': 'anim-px/gen-base-w-05-baekje-queen_hd.png',
   'anim-px/gen-base-w-02-goguryeo-lady.png': 'anim-px/gen-base-w-02-goguryeo-lady_hd.png',
   'anim-px/gen-aw1-base-w-06-buyeo-huntress.png': 'anim-px/gen-aw1-base-w-06-buyeo-huntress_hd.png',
